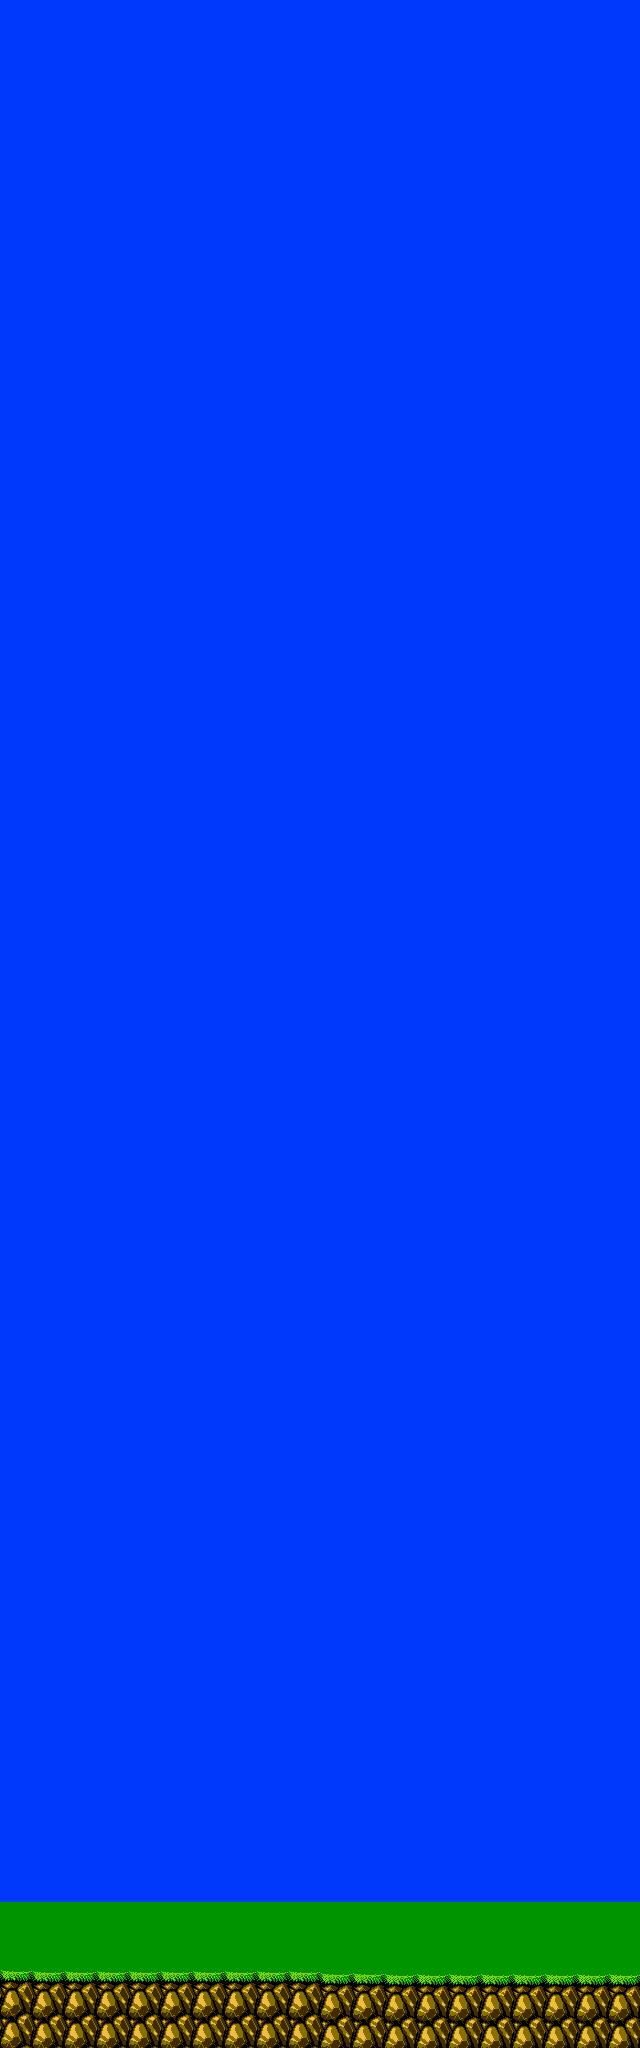
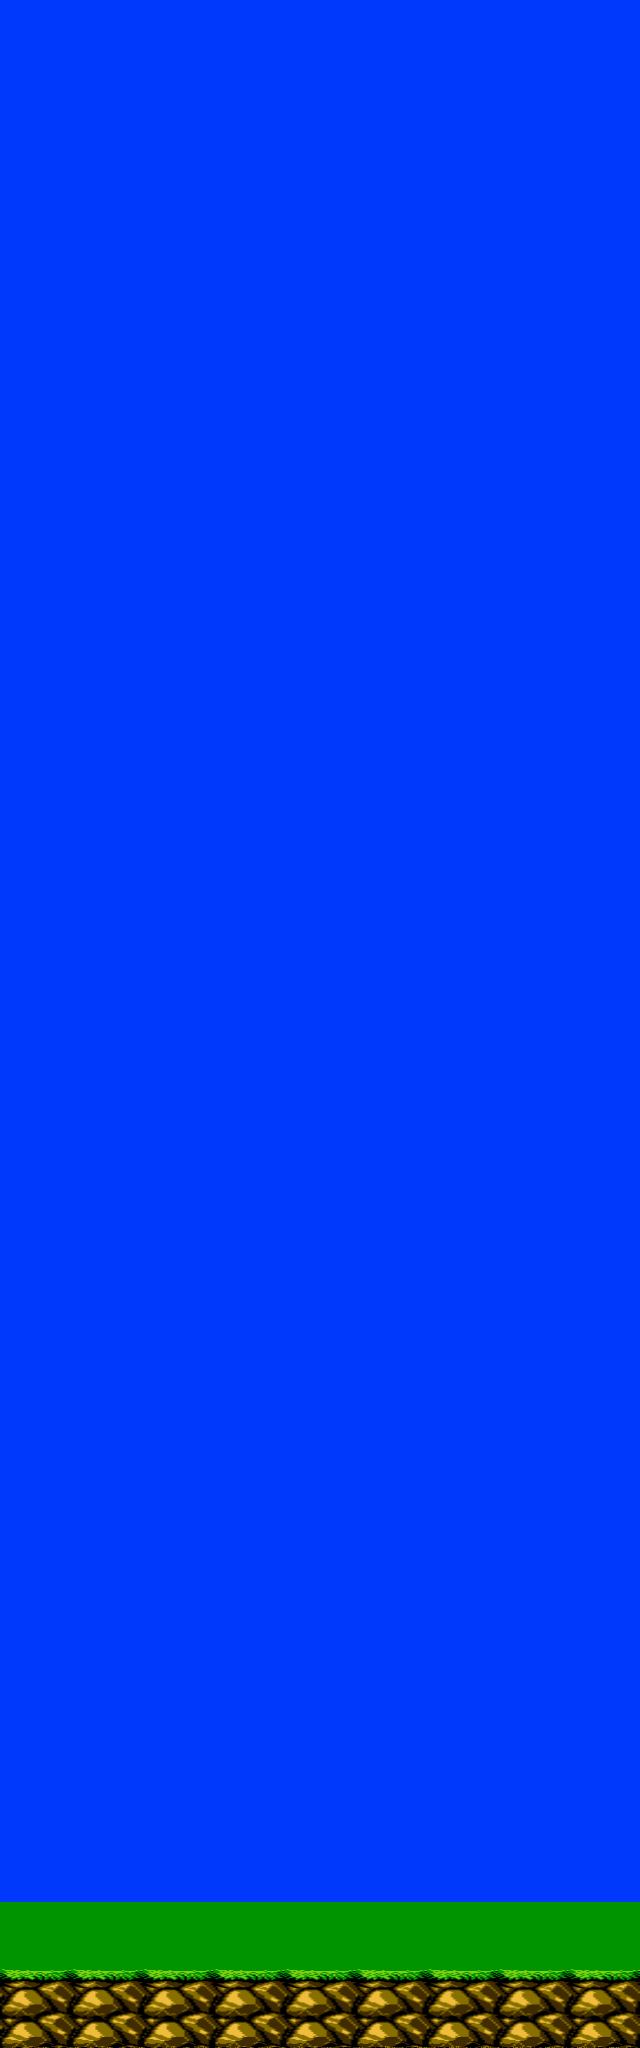
graphics upgrade, back1-4 and plateau

Changed region(s): [[0.0, 0.9375, 1.0, 1.0]]

diff --git a/Berzerk/Berzerk/Level.cs b/Berzerk/Berzerk/Level.cs
@@ -123,12 +123,12 @@ namespace Berzerk
             rand = new Random();
             textures = new StaticTexture[NUM_TEXTURES];
             
-            textures[0] = new Mine( new Vector2(m_graphics.Viewport.Width  + mineText.Width, m_graphics.Viewport.Height - mineText.Height), content);
-            textures[1] = new Cloud( new Vector2(m_graphics.Viewport.Width + cloudText.Width, cloudText.Height + 10), content);
+            textures[0] = new Mine( new Vector2(m_graphics.Viewport.Width  + mineText.Width, 625 - mineText.Height), content);
+            textures[1] = new Mine(new Vector2(m_graphics.Viewport.Width + mineText.Width, 625 - mineText.Height), content);
             textures[2] = new Cloud( new Vector2(m_graphics.Viewport.Width + cloudText.Width, cloudText.Height + 10), content);
             textures[3] = new Wasp( new Vector2(m_graphics.Viewport.Width  + waspText.Width, 300), content);
-            textures[4] = new Mine( new Vector2(m_graphics.Viewport.Width  + mineText.Width, m_graphics.Viewport.Height - mineText.Height), content);
-            textures[5] = new Slime( new Vector2(m_graphics.Viewport.Width + slimeText.Width, m_graphics.Viewport.Height - (mineText.Height * 2)), content);
+            textures[4] = new Mine(new Vector2(m_graphics.Viewport.Width + mineText.Width, 625 - mineText.Height), content);
+            textures[5] = new Slime(new Vector2(m_graphics.Viewport.Width + slimeText.Width, 625 - (mineText.Height * 2)), content);
             textures[6] = new Cloud( new Vector2(m_graphics.Viewport.Width + cloudText.Width, cloudText.Height + 10), content);
             textures[7] = new Wasp( new Vector2(m_graphics.Viewport.Width  + waspText.Width, 300), content);
             textures[8] = new Wasp( new Vector2(m_graphics.Viewport.Width  + waspText.Width, 300), content);
@@ -145,12 +145,12 @@ namespace Berzerk
             textures[18] = new Wasp(new Vector2(m_graphics.Viewport.Width + waspText.Width, 300), content);
             textures[19] = new Wasp(new Vector2(m_graphics.Viewport.Width + waspText.Width, 300), content);
 
-            textures[20] = new Mine(new Vector2(m_graphics.Viewport.Width + mineText.Width, m_graphics.Viewport.Height - mineText.Height), content);
+            textures[20] = new Mine(new Vector2(m_graphics.Viewport.Width + mineText.Width, 625 - mineText.Height), content);
             textures[21] = new Cloud(new Vector2(m_graphics.Viewport.Width + cloudText.Width, cloudText.Height + 10), content);
             textures[22] = new Cloud(new Vector2(m_graphics.Viewport.Width + cloudText.Width, cloudText.Height + 10), content);
             textures[23] = new Wasp(new Vector2(m_graphics.Viewport.Width + waspText.Width, 300), content);
-            textures[24] = new Mine(new Vector2(m_graphics.Viewport.Width + mineText.Width, m_graphics.Viewport.Height - mineText.Height), content);
-            textures[25] = new Slime(new Vector2(m_graphics.Viewport.Width + slimeText.Width, m_graphics.Viewport.Height - (mineText.Height * 2)), content);
+            textures[24] = new Mine(new Vector2(m_graphics.Viewport.Width + mineText.Width, 625 - mineText.Height), content);
+            textures[25] = new Slime(new Vector2(m_graphics.Viewport.Width + slimeText.Width, 625 - (mineText.Height * 2)), content);
             textures[26] = new Cloud(new Vector2(m_graphics.Viewport.Width + cloudText.Width, cloudText.Height + 10), content);
             textures[27] = new Wasp(new Vector2(m_graphics.Viewport.Width + waspText.Width, 300), content);
             textures[28] = new Wasp(new Vector2(m_graphics.Viewport.Width + waspText.Width, 300), content);

diff --git a/Berzerk/Berzerk/TestGame.cs b/Berzerk/Berzerk/TestGame.cs
@@ -32,7 +32,7 @@ namespace Berzerk
 
         Level level;
 
-        Rectangle groundRect = new Rectangle(0, 700, 1280, 5);  /// Checks intersection with projectile
+        Rectangle groundRect = new Rectangle(0, 620, 1280, 5);  /// Checks intersection with projectile
 
         //========= PROJECTILE TEST =============
         Projectile m_projectile;
@@ -101,9 +101,6 @@ namespace Berzerk
             m_gui = new GUI( content ) ;
             m_gui.HighscoreString = Player.Highscore.ToString();
             //========= GUI =============
-
-
-
         }
 
         public void Update(GameTime gameTime)
